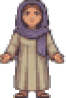
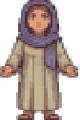
Force Maria to match Jesus sprite resolution and on-map scale

diff --git a/apps/mobile-app/app/(tabs)/world.tsx b/apps/mobile-app/app/(tabs)/world.tsx
@@ -138,8 +138,8 @@ export default function WorldScreen() {
   const jesusH = Math.max(78, Math.floor(worldSize.height * 0.098));
   const jesusLeft = clamp01(jesusAnchor.nx) * Math.max(0, worldSize.width - jesusW);
   const jesusTop = clamp01(jesusAnchor.ny) * Math.max(0, worldSize.height - jesusH);
-  const mariaW = Math.max(48, Math.floor(worldSize.width * 0.072));
-  const mariaH = Math.max(72, Math.floor(worldSize.height * 0.092));
+  const mariaW = jesusW;
+  const mariaH = jesusH;
   const mariaLeft = clamp01(mariaAnchor.nx) * Math.max(0, worldSize.width - mariaW);
   const mariaTop = clamp01(mariaAnchor.ny) * Math.max(0, worldSize.height - mariaH);
   const mariaUnlocked = attendanceReward?.mariaUnlocked ?? false;
